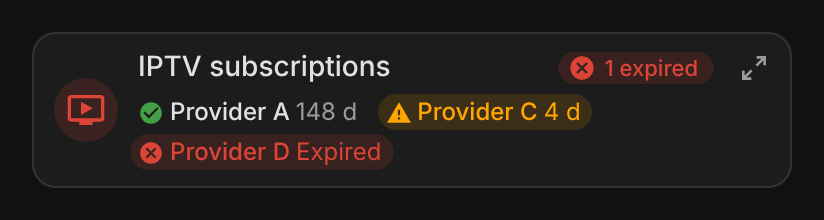
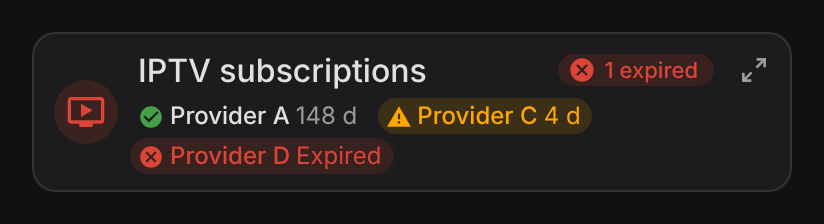
Give the mini card title the full card's 16 px size
Claude-Session: https://claude.ai/code/session_01NW8HrjdUvTF3zwsaKKxQNw

diff --git a/custom_components/iptv/frontend/iptv-card.js b/custom_components/iptv/frontend/iptv-card.js
@@ -933,7 +933,7 @@ class IptvMiniCard extends IptvCard {
     .mini .badge { width: 32px; height: 32px; --mdc-icon-size: 20px; }
     .body { flex: 1; min-width: 0; display: flex; flex-direction: column; gap: 4px; }
     .head { display: flex; align-items: center; gap: 8px; min-width: 0; }
-    .mini .name { flex: 0 1 auto; font-size: 14px; line-height: 18px; }
+    .mini .name { flex: 0 1 auto; }
     .head .chip { flex: none; margin-left: auto; }
     .rs { display: flex; flex-wrap: wrap; gap: 2px 4px; margin-left: -4px; }
     .mini .msg { padding: 0; font-size: 12px; }

diff --git a/CHANGELOG.md b/CHANGELOG.md
@@ -4,6 +4,7 @@
 
 ### Changes
 - Card and mini card: the header shows a TV icon in a round badge, green, orange or red after the worst state of the subscriptions shown, instead of the integration logo, like the other cards.
+- Mini card: the title uses the full card's size (16 px, line height 1.25) instead of 14 px; a long title still ends with an ellipsis.
 
 ## 3.16.0
 
